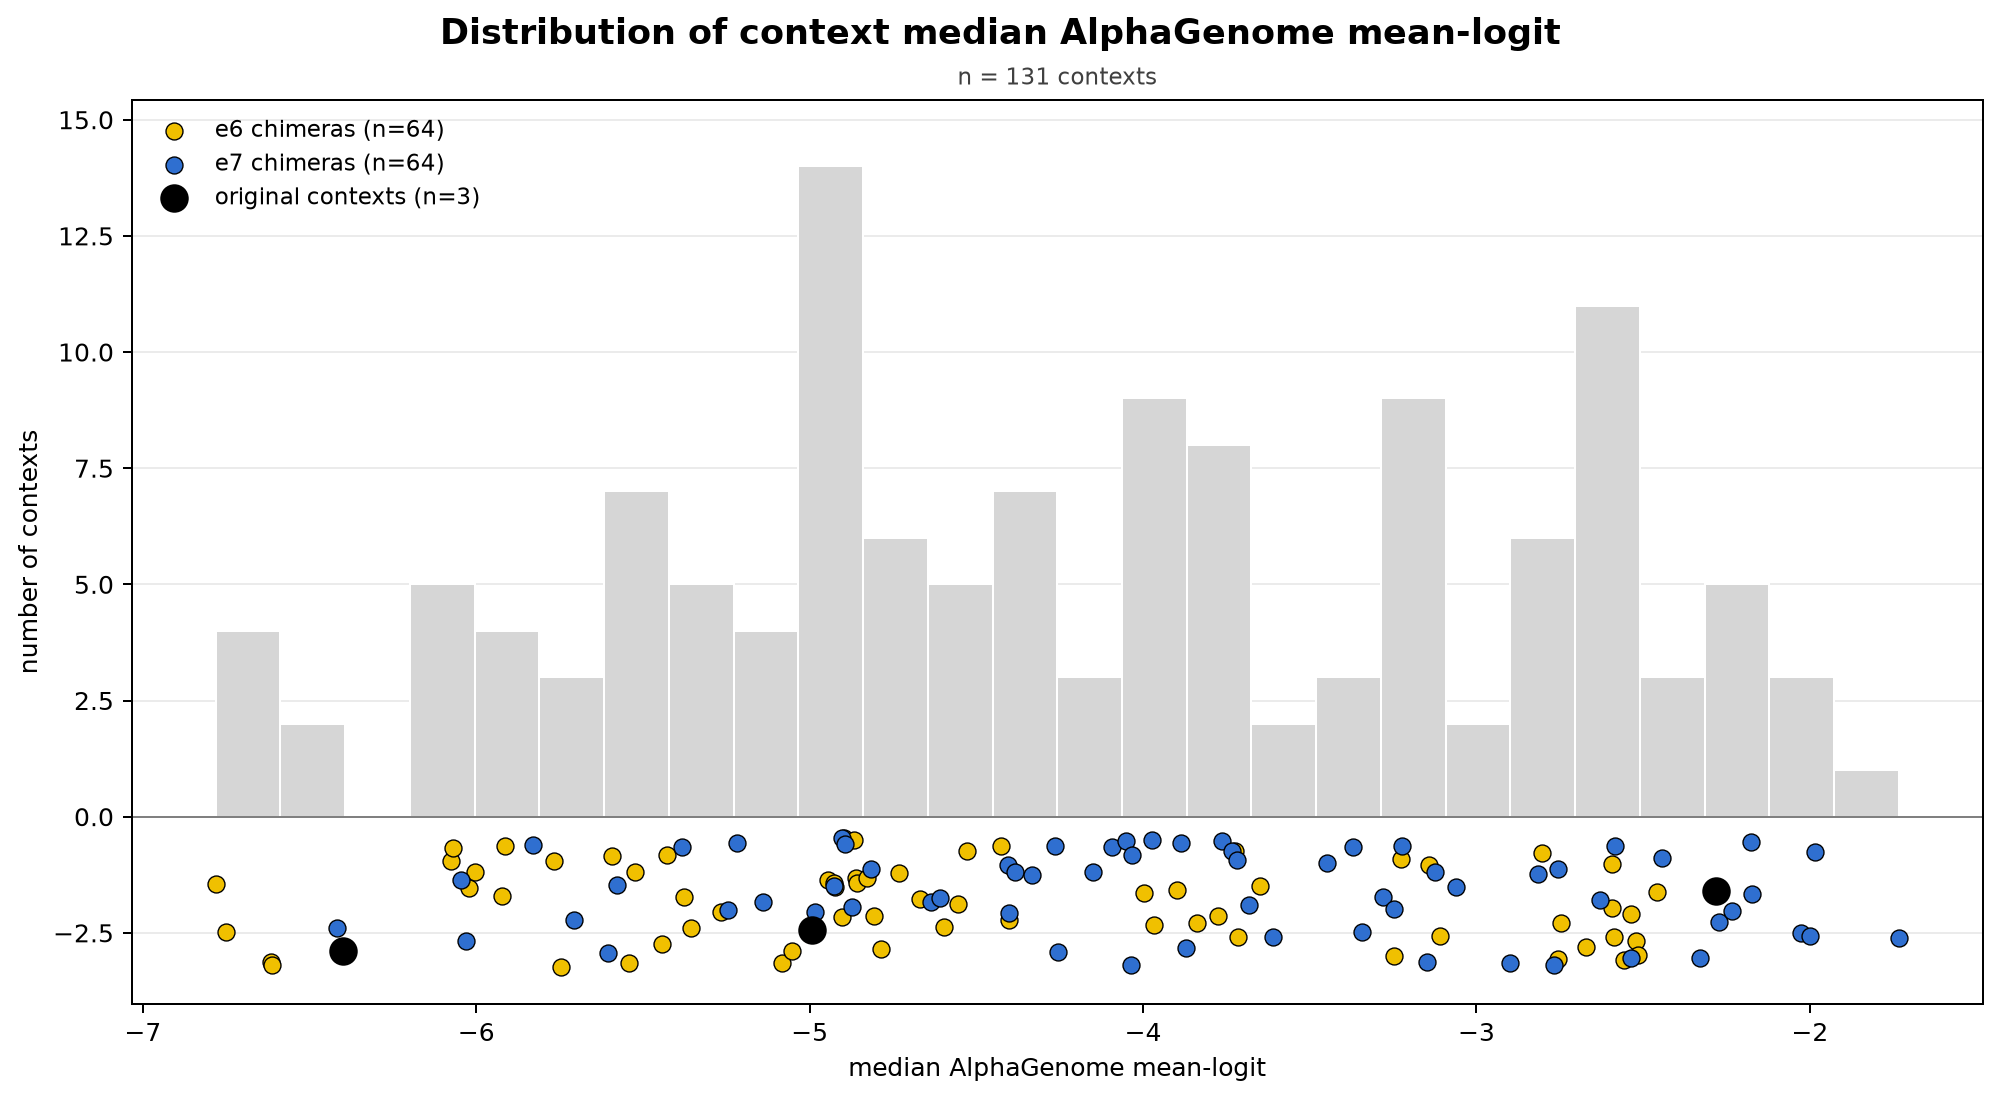
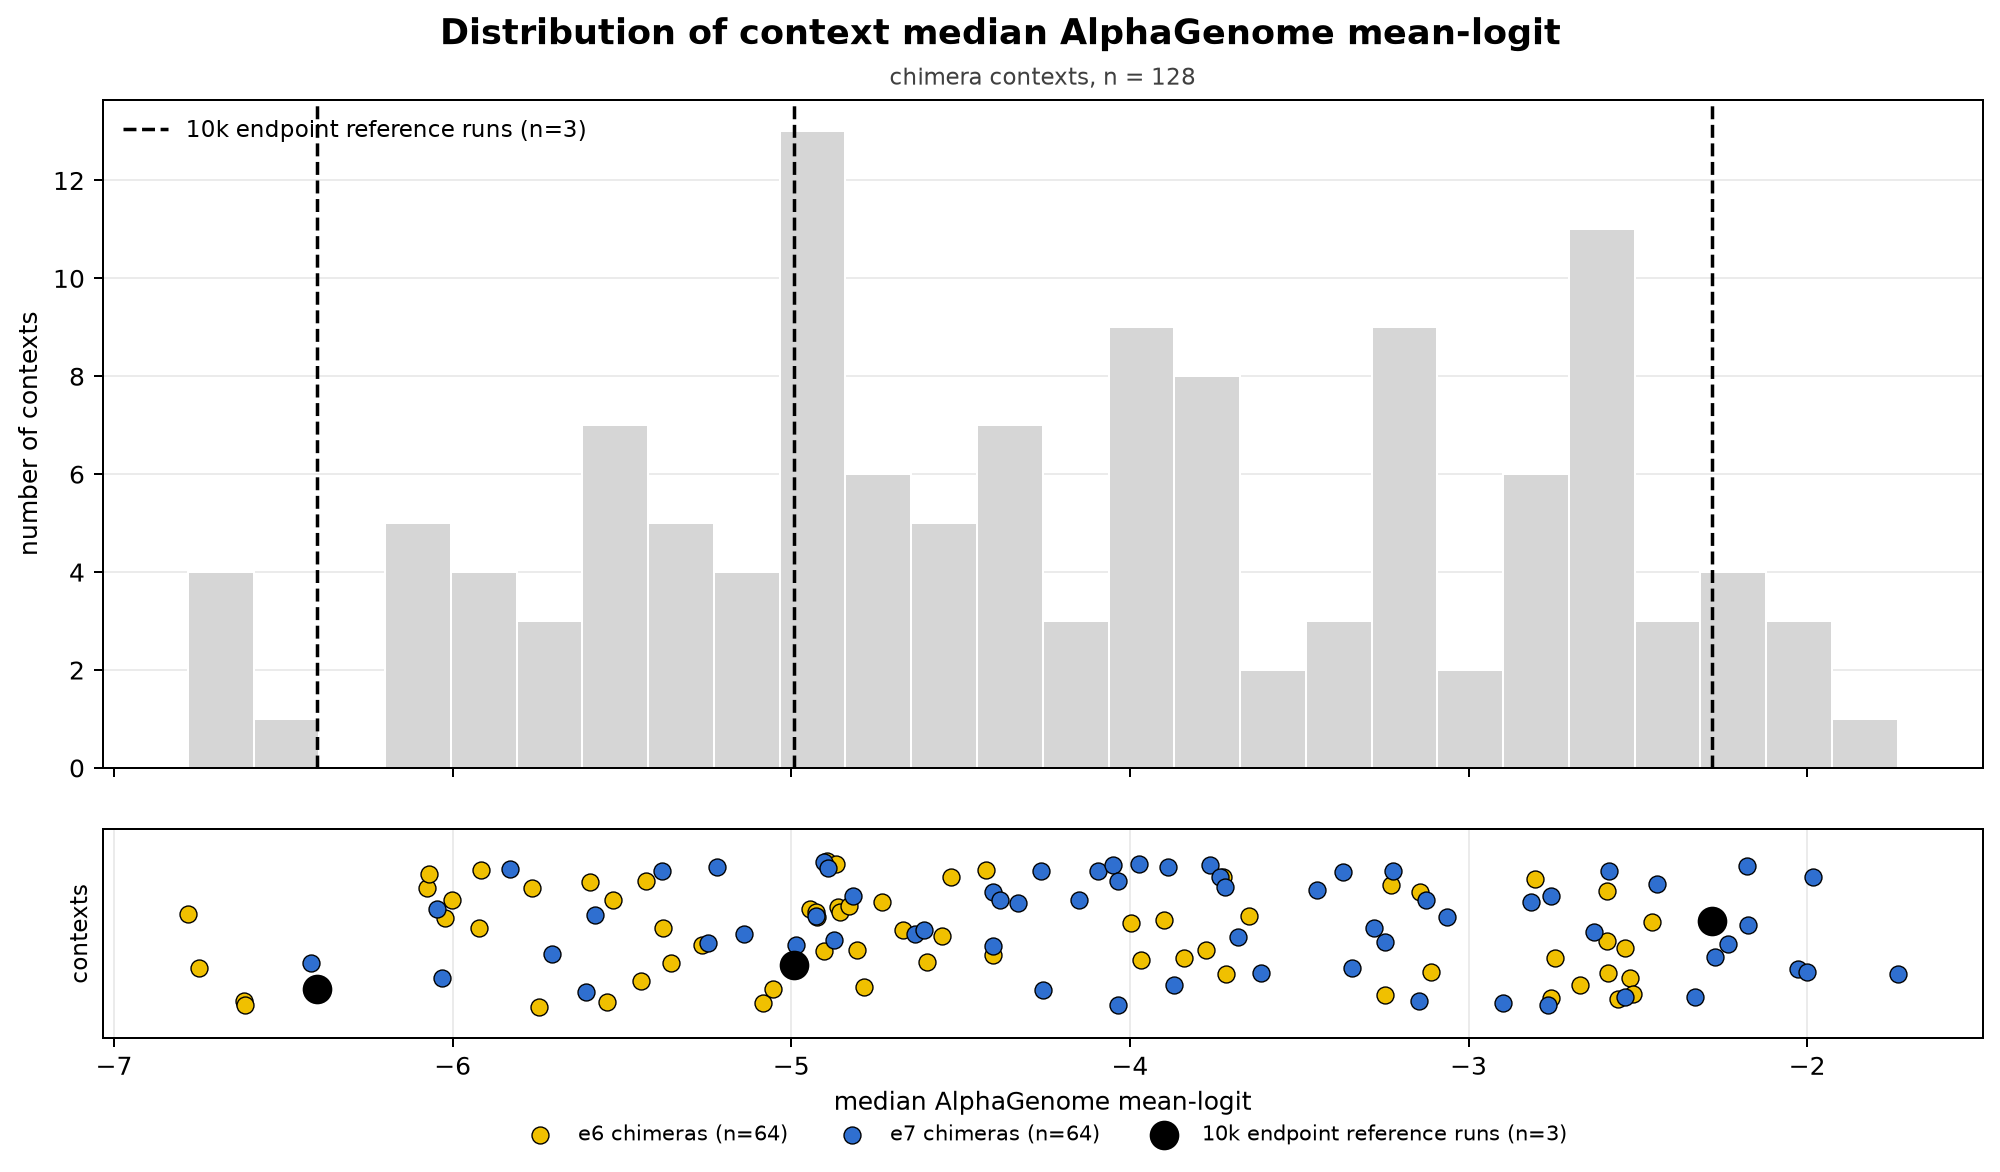
fix graphs

diff --git a/analysis_script/plot_endpoint_dirichlet_panels.py b/analysis_script/plot_endpoint_dirichlet_panels.py
@@ -1,0 +1,120 @@
+"""
+Per-context endpoint figures split by Dirichlet regime.
+
+Three PNGs -- one per full context -- each a 2x2 grid of blue 2D histograms,
+one subplot per Dirichlet alpha (0.1, 0.5, 1.0, 5.0):
+
+    endpoint_dirichlet_panels_PNAS_original_1309.png
+    endpoint_dirichlet_panels_FAS_TP53_e6.png
+    endpoint_dirichlet_panels_FAS_TP53_e7.png
+
+READ-ONLY: no AlphaGenome calls, no CSV is written or modified. The existing
+3-panel figure in ``plots/original_context/`` is left untouched; these go to
+``plots/endpoints/``.
+
+Axes are identical across all 12 subplots AND across all three PNGs, reusing
+the same pooled endpoint+chimera limits as the other mean-logit figures, so
+every panel in the whole set is directly comparable.
+
+Style (Blues / LogNorm / cmin=1 / "Count" colorbar / 40 bins) is inherited from
+``analyze_synthetic_mean_logit._hist_panel`` rather than re-specified here.
+"""
+
+from __future__ import annotations
+
+import argparse
+import sys
+from pathlib import Path
+
+import pandas as pd
+import matplotlib
+
+matplotlib.use("Agg")
+import matplotlib.pyplot as plt  # noqa: E402
+
+_THIS_DIR = Path(__file__).resolve().parent
+ROOT = _THIS_DIR.parent
+if str(_THIS_DIR) not in sys.path:
+    sys.path.insert(0, str(_THIS_DIR))
+
+import analyze_synthetic_mean_logit as A  # noqa: E402
+
+LIB_CSV = A.OUT / "synthetic_exon_library.csv"
+OUT_DIR = A.OUT / "plots" / "endpoints"
+
+#: (context value in the results CSV, display name used in the filename/title)
+CONTEXTS = [("PNAS", "PNAS_original_1309"),
+            ("TP53_e6", "FAS_TP53_e6"),
+            ("TP53_e7", "FAS_TP53_e7")]
+#: 2x2 reading order: top-left, top-right, bottom-left, bottom-right
+ALPHA_ORDER = [0.1, 0.5, 1.0, 5.0]
+
+
+def _regime_column(lib: pd.DataFrame) -> str:
+    """Detect the Dirichlet regime column rather than assuming its name."""
+    for c in ("alpha", "dirichlet_alpha", "regime", "dirichlet_regime"):
+        if c in lib.columns:
+            return c
+    cand = [c for c in lib.columns
+            if any(k in c.lower() for k in ("alpha", "dirichlet", "regime"))]
+    if not cand:
+        raise SystemExit(
+            f"No Dirichlet regime column found in {LIB_CSV.name}. "
+            f"Columns are: {list(lib.columns)}")
+    return cand[0]
+
+
+def main(argv=None) -> int:
+    argparse.ArgumentParser(description=__doc__).parse_args(argv)
+
+    lib = pd.read_csv(LIB_CSV)
+    col = _regime_column(lib)
+
+    # Reuse the pooled endpoint+chimera limits so these panels line up exactly
+    # with the existing mean-logit figures.
+    ep, full = A.load_all()
+    xlim, ylim = A.global_limits(ep, full)
+
+    # Merge on sequence_id to recover the regime, per the stated requirement.
+    merged = ep.merge(lib[["sequence_id", col]], on="sequence_id",
+                      how="left", suffixes=("", "_lib"))
+    reg = f"{col}_lib" if f"{col}_lib" in merged.columns else col
+    if merged[reg].isna().any():
+        raise SystemExit(f"{merged[reg].isna().sum()} endpoint rows had no "
+                         f"matching sequence_id in {LIB_CSV.name}")
+
+    OUT_DIR.mkdir(parents=True, exist_ok=True)
+    print(f"regime column used: '{col}' (from {LIB_CSV.name}, merged on sequence_id)")
+    print(f"shared axes: x={tuple(round(v, 2) for v in xlim)}  "
+          f"y={tuple(round(v, 2) for v in ylim)}")
+    print("\nrows per alpha group (per context):")
+
+    written = []
+    for ctx, nice in CONTEXTS:
+        sub = merged[merged.context == ctx]
+        fig, axes = plt.subplots(2, 2, figsize=(12.4, 11.4),
+                                 constrained_layout=True)
+        counts = []
+        for ax, a in zip(axes.ravel(), ALPHA_ORDER):
+            s = sub[sub[reg] == a]
+            counts.append(f"alpha={a}: {len(s):,}")
+            A._hist_panel(ax, s, fig, xlim, ylim,
+                          f"Dirichlet alpha = {a}\nn = {len(s):,}")
+        fig.suptitle(f"{nice} — AlphaGenome mean-logit by Dirichlet regime",
+                     fontsize=15, fontweight="bold")
+        out = OUT_DIR / f"endpoint_dirichlet_panels_{nice}.png"
+        fig.savefig(out, dpi=170, bbox_inches="tight")
+        plt.close(fig)
+        written.append(out)
+        print(f"  {nice:20} " + "   ".join(counts))
+
+    print("\nwrote:")
+    for p in written:
+        print(f"  {p}")
+    print(f"\nexisting figure left untouched: "
+          f"{A.P_END / 'original_context_three_panel_mean_logit.png'}")
+    return 0
+
+
+if __name__ == "__main__":
+    raise SystemExit(main())

diff --git a/analysis_script/analyze_synthetic_mean_logit.py b/analysis_script/analyze_synthetic_mean_logit.py
@@ -249,34 +249,51 @@ def part5_median_distribution(ep: pd.DataFrame, full: pd.DataFrame) -> pd.DataFr
 
     style = {"e6": ("#f0c000", 46, "e6 chimeras"),
              "e7": ("#2f6fd0", 46, "e7 chimeras"),
-             "original": ("black", 110, "original contexts")}
+             "original": ("black", 120, "10k endpoint reference runs")}
+    chim = tab[tab.group != "original"]
+    endp = tab[tab.group == "original"]
 
-    fig, ax = plt.subplots(figsize=(11, 6.0), constrained_layout=True)
-    ax.hist(tab.median_AG_mean_logit, bins=26, color="0.84",
-            edgecolor="white", linewidth=.8, zorder=1)
+    # Two rows on a shared x. The y axes mean different things, so they get
+    # separate panels rather than being overlaid: counts on top, one dot per
+    # context on the bottom strip (its y is categorical jitter only).
+    fig, (ax_h, ax_s) = plt.subplots(
+        2, 1, figsize=(11, 6.4), sharex=True,
+        gridspec_kw={"height_ratios": [3.2, 1.0], "hspace": 0.08},
+        constrained_layout=True)
 
-    # dot strip below the histogram, jittered so overlapping contexts stay visible
-    top = ax.get_ylim()[1]
-    band_lo, band_hi = -0.22 * top, -0.03 * top
+    ax_h.hist(chim.median_AG_mean_logit, bins=26, color="0.84",
+              edgecolor="white", linewidth=.8, zorder=1)
+    for _, r in endp.iterrows():
+        ax_h.axvline(r.median_AG_mean_logit, color="black", lw=1.4,
+                     ls="--", zorder=3)
+    ax_h.plot([], [], color="black", lw=1.4, ls="--",
+              label=f"{style['original'][2]} (n={len(endp)})")
+    ax_h.set_ylabel("number of contexts")
+    ax_h.set_title(f"chimera contexts, n = {len(chim)}", fontsize=9, color="0.25")
+    ax_h.legend(frameon=False, fontsize=9, loc="upper left")
+    ax_h.grid(axis="y", alpha=.25)
+    ax_h.set_axisbelow(True)
+
     rng = np.random.default_rng(0)
     for grp in ("e6", "e7", "original"):
         g = tab[tab.group == grp]
         col, size, lab = style[grp]
-        yy = rng.uniform(band_lo, band_hi, len(g))
-        ax.scatter(g.median_AG_mean_logit, yy, s=size, color=col,
-                   edgecolor="black", linewidth=.55 if grp != "original" else .9,
-                   zorder=4 if grp == "original" else 3, label=f"{lab} (n={len(g)})")
-    ax.axhline(0, color="0.5", lw=.8, zorder=2)
-    ax.set_ylim(band_lo * 1.25, top * 1.05)
+        yy = rng.uniform(0.15, 0.85, len(g))
+        ax_s.scatter(g.median_AG_mean_logit, yy, s=size, color=col,
+                     edgecolor="black", linewidth=.55 if grp != "original" else .9,
+                     zorder=4 if grp == "original" else 3,
+                     label=f"{lab} (n={len(g)})")
+    ax_s.set_ylim(0, 1)
+    ax_s.set_yticks([])
+    ax_s.set_ylabel("contexts", fontsize=9)
+    ax_s.set_xlabel("median AlphaGenome mean-logit")
+    ax_s.legend(frameon=False, fontsize=8.5, loc="upper center",
+                bbox_to_anchor=(0.5, -0.32), ncol=3)
+    ax_s.grid(axis="x", alpha=.25)
+    ax_s.set_axisbelow(True)
 
-    ax.set_xlabel("median AlphaGenome mean-logit")
-    ax.set_ylabel("number of contexts")
-    ax.set_title(f"n = {len(tab)} contexts", fontsize=9, color="0.25")
     fig.suptitle("Distribution of context median AlphaGenome mean-logit",
                  fontsize=14, fontweight="bold")
-    ax.legend(frameon=False, fontsize=9, loc="upper left")
-    ax.grid(axis="y", alpha=.25)
-    ax.set_axisbelow(True)
     fig.savefig(P_SUM / "context_median_mean_logit_distribution.png",
                 dpi=180, bbox_inches="tight")
     plt.close(fig)
